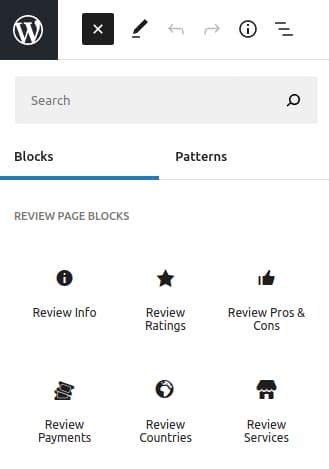
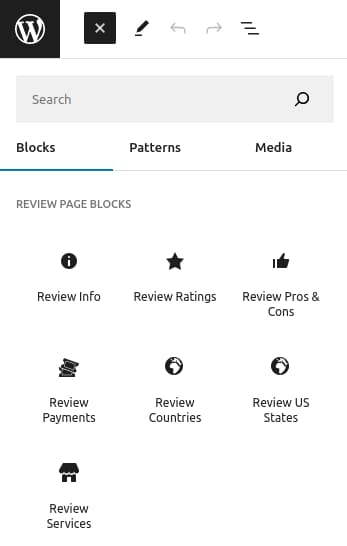
Kemoku 1.6.0

diff --git a/build_production/docs/kemoku/blocks/index.html b/build_production/docs/kemoku/blocks/index.html
@@ -1351,7 +1351,7 @@
 <h4>Grid</h4>
 
 <p>Preview:
-<img src="/assets/images/kemoku/kemoku-reviews-grid-block-frontend.png" alt="Kemoku Grid Block" /></p>
+<img src="/assets/images/kemoku/kemoku-reviews-grid-block-frontend.jpg" alt="Kemoku Grid Block" /></p>
 
 <p>Dashboard:
 <img src="/assets/images/kemoku/kemoku-reviews-grid-block-backend.jpg" alt="Kemoku Grid Block" /></p>
@@ -1361,10 +1361,10 @@
 <p>Simply add the block, fill in the heading (optional), content and button/link fields and it's ready.</p>
 
 <p>Preview:
-<img src="/assets/images/kemoku/kemoku-review-cta-block-frontend.png" alt="Kemoku CTA Block" /></p>
+<img src="/assets/images/kemoku/kemoku-review-cta-block-frontend.jpg" alt="Kemoku CTA Block" /></p>
 
 <p>Dashboard:
-<img src="/assets/images/kemoku/kemoku-review-cta-block-backend.png" alt="Kemoku CTA Block" /></p>
+<img src="/assets/images/kemoku/kemoku-review-cta-block-backend.jpg" alt="Kemoku CTA Block" /></p>
 
 <h3>Review Page Blocks</h3>
 
@@ -1378,6 +1378,7 @@
 <li>Review Pros &amp; Cons</li>
 <li>Review Payments</li>
 <li>Review Countries</li>
+<li>Review US States</li>
 <li>Review Services</li>
 </ul>
 
@@ -1391,12 +1392,26 @@
 
 <p>Below are screenshots of review page blocks.</p>
 
-<p><img src="/assets/images/kemoku/kemoku-review-info-block-frontend.png" alt="Kemoku Review Info Block" />
-<img src="/assets/images/kemoku/kemoku-review-ratings-block-frontend.png" alt="Kemoku Review Ratings Block" />
-<img src="/assets/images/kemoku/kemoku-review-pros-cons-block-frontend.png" alt="Kemoku Review Pros &amp; Cons Block" />
-<img src="/assets/images/kemoku/kemoku-review-payment-methods-block-frontend.png" alt="Kemoku Review Payment Methods Block" />
-<img src="/assets/images/kemoku/kemoku-review-countries-block-frontend.png" alt="Kemoku Review Countries Block" />
-<img src="/assets/images/kemoku/kemoku-review-services-block-frontend.png" alt="Kemoku Review Services Block" /></p>
+<p><img src="/assets/images/kemoku/kemoku-review-info-block-frontend.jpg" alt="Kemoku Review Info Block" />
+Kemoku Review Info Block</p>
+
+<p><img src="/assets/images/kemoku/kemoku-review-ratings-block-frontend.jpg" alt="Kemoku Review Ratings Block" />
+Kemoku Review Ratings Block</p>
+
+<p><img src="/assets/images/kemoku/kemoku-review-pros-cons-block-frontend.jpg" alt="Kemoku Review Pros &amp; Cons Block" />
+Kemoku Review Pros &amp; Cons Block</p>
+
+<p><img src="/assets/images/kemoku/kemoku-review-payments-block-frontend.jpg" alt="Kemoku Review Payment Methods Block" />
+Kemoku Review Payment Methods Block</p>
+
+<p><img src="/assets/images/kemoku/kemoku-review-services-block-frontend.jpg" alt="Kemoku Review Services Block" />
+Kemoku Review Services Block</p>
+
+<p><img src="/assets/images/kemoku/kemoku-review-countries-block-frontend.jpg" alt="Kemoku Review Countries Block" />
+Kemoku Review Countries Block</p>
+
+<p><img src="/assets/images/kemoku/kemoku-review-us-states-block-frontend.jpg" alt="Kemoku Review US States Block" />
+Kemoku Review US States Block</p>
 
 <h3>Blocks vs Shortcodes</h3>
 
@@ -1413,7 +1428,7 @@
 
     <nav id="js-page-menu" class="page-menu">
         <h4>
-            KEMOKU v1.5.8
+            KEMOKU v1.6.0
         </h4>
 
         <div id="page-menu-wrapper"></div>

diff --git a/build_production/docs/kemoku/settings/index.html b/build_production/docs/kemoku/settings/index.html
@@ -1350,7 +1350,7 @@ If you find a field name unclear, click the <strong>info</strong> icon for detai
 
     <nav id="js-page-menu" class="page-menu">
         <h4>
-            KEMOKU v1.5.8
+            KEMOKU v1.6.0
         </h4>
 
         <div id="page-menu-wrapper"></div>

diff --git a/build_production/docs/kemoku/review-pages/index.html b/build_production/docs/kemoku/review-pages/index.html
@@ -1386,7 +1386,7 @@ and you can filter reviews on tables and grids by category and tag as well.</p>
 
     <nav id="js-page-menu" class="page-menu">
         <h4>
-            KEMOKU v1.5.8
+            KEMOKU v1.6.0
         </h4>
 
         <div id="page-menu-wrapper"></div>

diff --git a/build_production/docs/kemoku/registration/index.html b/build_production/docs/kemoku/registration/index.html
@@ -1343,7 +1343,7 @@ Enter the the slug you need and click save to set it.</p>
 
     <nav id="js-page-menu" class="page-menu">
         <h4>
-            KEMOKU v1.5.8
+            KEMOKU v1.6.0
         </h4>
 
         <div id="page-menu-wrapper"></div>

diff --git a/build_production/docs/kemoku/listing-tools/index.html b/build_production/docs/kemoku/listing-tools/index.html
@@ -1517,7 +1517,7 @@ kemoku_listing_filters__values__payment_methods
 
     <nav id="js-page-menu" class="page-menu">
         <h4>
-            KEMOKU v1.5.8
+            KEMOKU v1.6.0
         </h4>
 
         <div id="page-menu-wrapper"></div>

diff --git a/build_production/docs/kemoku/index.html b/build_production/docs/kemoku/index.html
@@ -1343,7 +1343,7 @@ Recommended <code>WordPress 6.0</code>.</p>
 
     <nav id="js-page-menu" class="page-menu">
         <h4>
-            KEMOKU v1.5.8
+            KEMOKU v1.6.0
         </h4>
 
         <div id="page-menu-wrapper"></div>

diff --git a/build_production/docs/kemoku/installation/index.html b/build_production/docs/kemoku/installation/index.html
@@ -1340,7 +1340,7 @@
 
     <nav id="js-page-menu" class="page-menu">
         <h4>
-            KEMOKU v1.5.8
+            KEMOKU v1.6.0
         </h4>
 
         <div id="page-menu-wrapper"></div>

diff --git a/build_production/docs/kemoku/plugin-updates/index.html b/build_production/docs/kemoku/plugin-updates/index.html
@@ -1311,7 +1311,7 @@
 
     <nav id="js-page-menu" class="page-menu">
         <h4>
-            KEMOKU v1.5.8
+            KEMOKU v1.6.0
         </h4>
 
         <div id="page-menu-wrapper"></div>

diff --git a/build_production/docs/kemoku/shortcodes/index.html b/build_production/docs/kemoku/shortcodes/index.html
@@ -1372,7 +1372,7 @@
 
     <nav id="js-page-menu" class="page-menu">
         <h4>
-            KEMOKU v1.5.8
+            KEMOKU v1.6.0
         </h4>
 
         <div id="page-menu-wrapper"></div>

diff --git a/build_production/docs/kemoku/widgets/index.html b/build_production/docs/kemoku/widgets/index.html
@@ -1348,7 +1348,7 @@
 
     <nav id="js-page-menu" class="page-menu">
         <h4>
-            KEMOKU v1.5.8
+            KEMOKU v1.6.0
         </h4>
 
         <div id="page-menu-wrapper"></div>

diff --git a/config.php b/config.php
@@ -20,7 +20,7 @@ return [
         'akurai' => '3.1.2',
         'spinoko' => '2.4.0',
         'sikika' => '1.0.2',
-        'kemoku' => '1.5.8',
+        'kemoku' => '1.6.0',
         'dinodds' => '1.3.1',
         'akurai-geo' => '1.1.1',
         'nonaki' => '1.0.4',

diff --git a/source/docs/kemoku/blocks.md b/source/docs/kemoku/blocks.md
@@ -50,7 +50,7 @@ Dashboard:
 #### Grid
 
 Preview:
-![Kemoku Grid Block](/assets/images/kemoku/kemoku-reviews-grid-block-frontend.png)
+![Kemoku Grid Block](/assets/images/kemoku/kemoku-reviews-grid-block-frontend.jpg)
 
 Dashboard:
 ![Kemoku Grid Block](/assets/images/kemoku/kemoku-reviews-grid-block-backend.jpg)
@@ -60,10 +60,10 @@ Dashboard:
 Simply add the block, fill in the heading (optional), content and button/link fields and it's ready.
 
 Preview:
-![Kemoku CTA Block](/assets/images/kemoku/kemoku-review-cta-block-frontend.png)
+![Kemoku CTA Block](/assets/images/kemoku/kemoku-review-cta-block-frontend.jpg)
 
 Dashboard:
-![Kemoku CTA Block](/assets/images/kemoku/kemoku-review-cta-block-backend.png)
+![Kemoku CTA Block](/assets/images/kemoku/kemoku-review-cta-block-backend.jpg)
 
 ### Review Page Blocks
 
@@ -76,6 +76,7 @@ Here are the blocks available in Kemoku plugin you can use in review pages:
 - Review Pros & Cons
 - Review Payments
 - Review Countries
+- Review US States
 - Review Services
 
 There's noting to configure in these blocks, simply add the blocks where you want to display them, and they are ready.
@@ -87,12 +88,27 @@ You can also use **Review CTA** block in review pages.
 
 Below are screenshots of review page blocks.
 
-![Kemoku Review Info Block](/assets/images/kemoku/kemoku-review-info-block-frontend.png)
-![Kemoku Review Ratings Block](/assets/images/kemoku/kemoku-review-ratings-block-frontend.png)
-![Kemoku Review Pros & Cons Block](/assets/images/kemoku/kemoku-review-pros-cons-block-frontend.png)
-![Kemoku Review Payment Methods Block](/assets/images/kemoku/kemoku-review-payment-methods-block-frontend.png)
-![Kemoku Review Countries Block](/assets/images/kemoku/kemoku-review-countries-block-frontend.png)
-![Kemoku Review Services Block](/assets/images/kemoku/kemoku-review-services-block-frontend.png)
+
+![Kemoku Review Info Block](/assets/images/kemoku/kemoku-review-info-block-frontend.jpg)
+Kemoku Review Info Block
+
+![Kemoku Review Ratings Block](/assets/images/kemoku/kemoku-review-ratings-block-frontend.jpg)
+Kemoku Review Ratings Block
+
+![Kemoku Review Pros & Cons Block](/assets/images/kemoku/kemoku-review-pros-cons-block-frontend.jpg)
+Kemoku Review Pros & Cons Block
+
+![Kemoku Review Payment Methods Block](/assets/images/kemoku/kemoku-review-payments-block-frontend.jpg)
+Kemoku Review Payment Methods Block
+
+![Kemoku Review Services Block](/assets/images/kemoku/kemoku-review-services-block-frontend.jpg)
+Kemoku Review Services Block
+
+![Kemoku Review Countries Block](/assets/images/kemoku/kemoku-review-countries-block-frontend.jpg)
+Kemoku Review Countries Block
+
+![Kemoku Review US States Block](/assets/images/kemoku/kemoku-review-us-states-block-frontend.jpg)
+Kemoku Review US States Block
 
 
 ### Blocks vs Shortcodes
